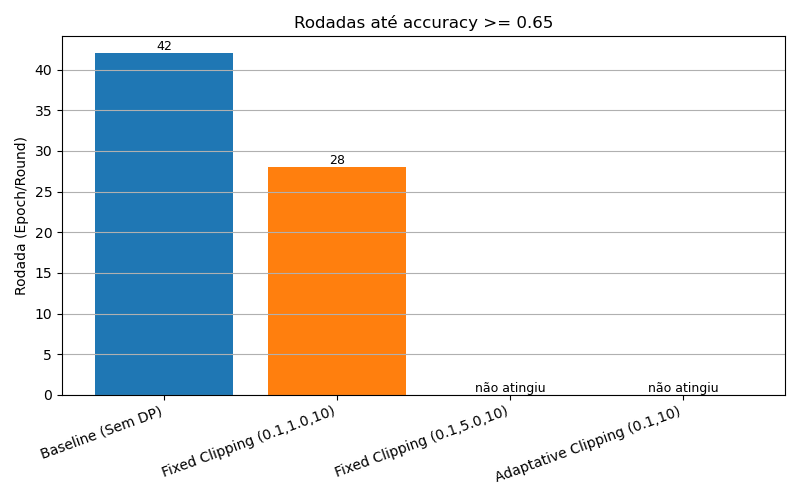
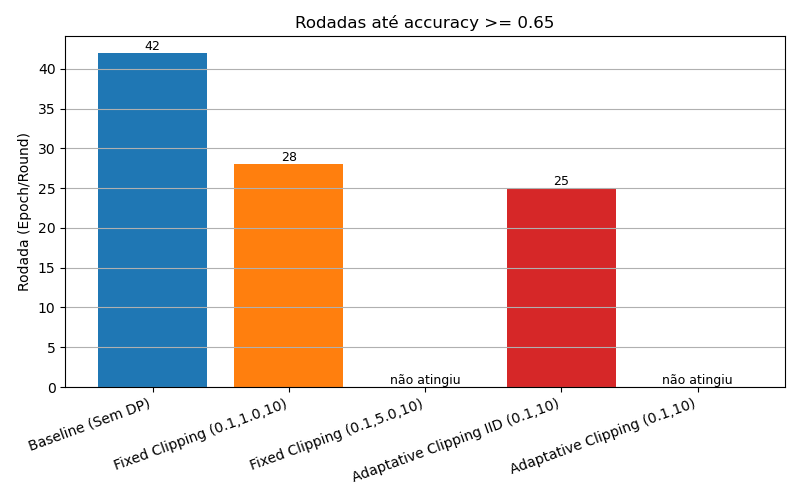
Adição do adaptive clipping iid

Changed region(s): [[0.0, 0.06, 0.9688, 0.96], [0.625, 0.75, 0.9375, 0.96], [0.3438, 0.03, 0.6875, 0.06]]

diff --git a/imagens/gera_graficos.py b/imagens/gera_graficos.py
@@ -8,9 +8,10 @@ import ast
 baseline_path = os.path.join("..", "metricas", "baseline.csv")
 fixedclipping_norm_1_path = os.path.join("..", "metricas", "fixedclipping_(0.1,1.0,10).csv")
 fixedclipping_norm_5_path = os.path.join("..", "metricas", "fixedclipping_(0.1,5.0,10).csv")
+adaptativeclipping_iid_path = os.path.join("..", "metricas", "adaptiveclipping_iid(0.1,10).csv")
 adaptativeclipping_path = os.path.join("..", "metricas", "adaptativeclipping_(0.1,10).csv")
 
-csv_paths = [baseline_path, fixedclipping_norm_1_path, fixedclipping_norm_5_path, adaptativeclipping_path]
+csv_paths = [baseline_path, fixedclipping_norm_1_path, fixedclipping_norm_5_path, adaptativeclipping_iid_path, adaptativeclipping_path]
 for csv_path in csv_paths:
     if not os.path.exists(csv_path):
         print(csv_path, " não encontrado.")
@@ -33,6 +34,7 @@ LABELS = [
     "Baseline (Sem DP)",
     "Fixed Clipping (0.1,1.0,10)",
     "Fixed Clipping (0.1,5.0,10)",
+    "Adaptative Clipping IID (0.1,10)",
     "Adaptative Clipping (0.1,10)",
 ]
 DP_PARAMS = {
@@ -40,6 +42,7 @@ DP_PARAMS = {
     "Fixed Clipping (0.1,1.0,10)": {"noise_multiplier": 0.1, "clipping_norm": 1.0},
     "Fixed Clipping (0.1,5.0,10)": {"noise_multiplier": 0.1, "clipping_norm": 5.0},
     "Adaptative Clipping (0.1,10)": {"noise_multiplier": 0.1, "clipping_norm": None},
+    "Adaptative Clipping IID (0.1,10)": {"noise_multiplier": 0.1, "clipping_norm": None},
 }
 
 OUTPUT_DIR = "."
